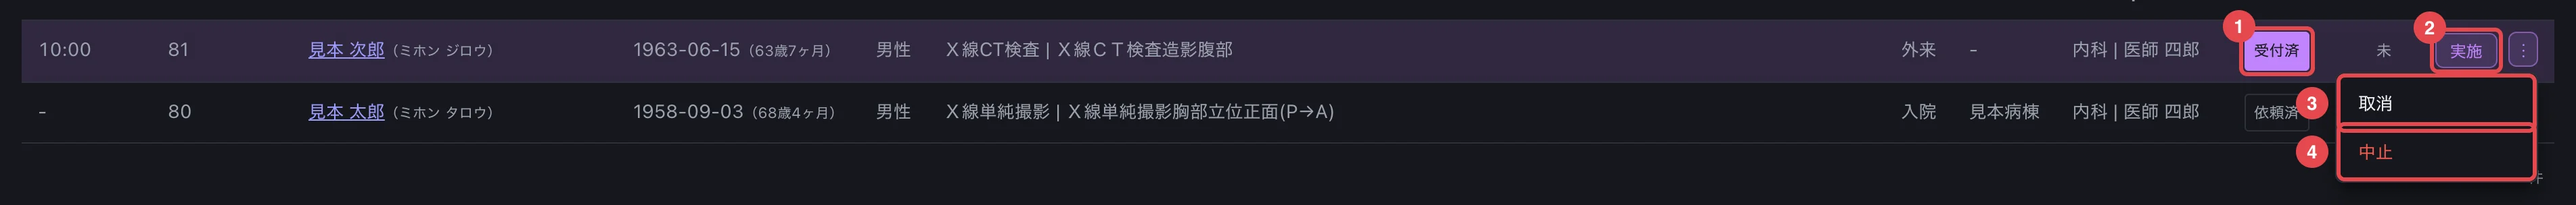
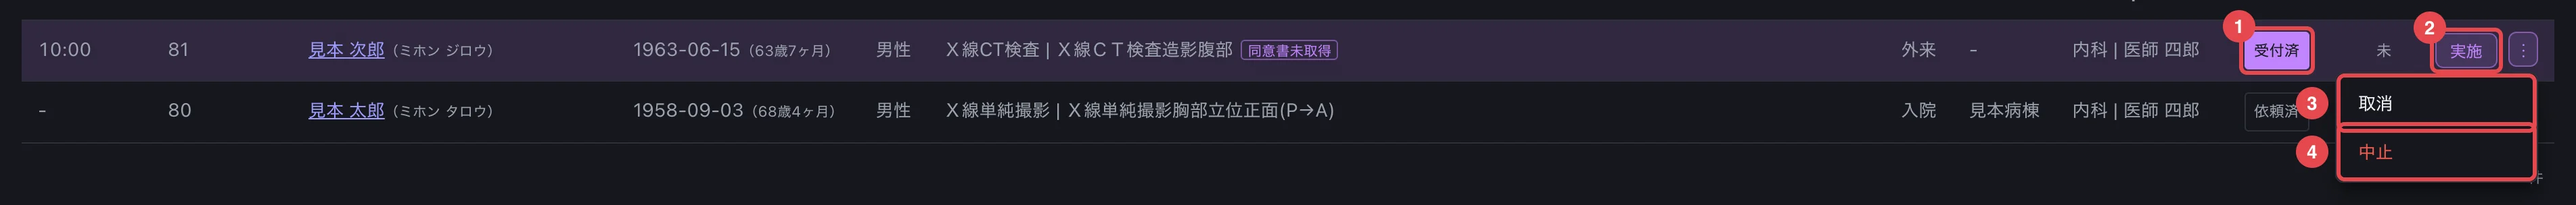
docs: 放射線検査の追加機能を操作マニュアルに反映

diff --git a/docs/manual/rad-worklist.md b/docs/manual/rad-worklist.md
@@ -1,11 +1,12 @@
 # 放射線検査一覧
 
 放射線部が、医師の出した放射線検査を放射線検査一覧で受け付けて実施を記録し、読影医が読影レポートを書く操作です。
+検査の件数と線量の集計、照射録の印刷も、この一覧から行います。
 放射線検査の流れ全体は、業務フローの[放射線検査オーダー](../flows/rad.md)を見てください。
 
 - 放射線検査一覧は、画面の上の「部門業務」>「放射線部門」>「放射線検査一覧」で開きます。ホームの「放射線検査」のカードからも開けます。
 - 作業は「依頼済」→(受付)→「受付済」→(実施入力)→「実施済」と進みます。読影レポートは実施済の検査に書きます。
-- 医師がオーダーを登録しても、放射線部への通知は出ません。撮影日の一覧で確かめます。
+- 至急の検査が登録されたときと、受付済の検査が変更されたときは、放射線部のチームに「放射線オーダー連絡」の通知が届きます。チームの誰か 1 人が「確認」を押すと片付きます。通常の検査の登録では通知は出ないので、撮影日の一覧で確かめます。
 
 ## 放射線検査一覧の見方
 
@@ -15,12 +16,38 @@
 2. 「種別(モダリティ)」「入外区分」「病棟」「診療科」「ステータス」で絞り込めます。「クリア」で絞り込みを外します。
 3. 撮影時刻の順に並びます。時刻の決まっていない検査は「-」で、後ろに並びます。
 4. 「ステータス」に作業の状態が出ます。至急の検査は「区分」に「至急」が付き、行の色が変わります。
-5. 「読影」に読影レポートの状態が出ます。まだ書いていなければ「未」、書いてあれば報告区分(暫定報告・最終報告・訂正報告)が出ます。
+5. 「読影」に読影レポートの状態が出ます。まだ書いていなければ「未」、書いてあれば報告区分(暫定報告・最終報告・訂正報告)が出ます。読影しない検査は「不要」です。
 6. 行のボタンで作業を進めます。依頼済の行は「受付」、受付済の行は「実施」、実施済の行は「読影」です。
-7. 撮影日を決めずに出された検査は「日付未定」のタブに並びます。タブ名に件数が出ます。
+7. タブで一覧を切り替えます。
 
-- 行を押すと、右に患者プロファイルが開きます。患者氏名を押すとカルテが開きます。
+    | タブ | 中身 |
+    |---|---|
+    | 撮影日別 | 選んだ撮影日の検査 |
+    | 日付未定 | 撮影日を決めずに出された検査。タブ名に件数が出ます |
+    | 読影待ち | 実施済で、読影レポートが確定していない検査。[読影待ちの検査を見る](#読影待ちの検査を見る) |
+    | 件数集計 | 期間の検査の件数。[検査の件数を集計する](#検査の件数を集計する) |
+    | 線量集計 | 期間の被曝線量と再撮影。[線量を集計する](#線量を集計する) |
+
+8. 造影する検査で、オーダーの「造影同意書取得済」にチェックが付いていないものには「同意書未取得」と出ます。撮影の前に確かめます。
+
+- 患者氏名を押すとカルテが開きます。
 - 患者氏名の後ろに、注意区分・アレルギー・感染症の印が出ます。
+
+## 依頼の内容を確かめる
+
+行を押すと、右に検査の内容と患者プロファイルが開きます。カルテを開かずに、撮影の前に確かめることを読めます。
+
+![行を押して開いた右側の欄](img/rad-worklist/09-drawer.webp){ .screen width="620" }
+
+1. 行と同じボタン(「受付」「実施」「読影」、「取消」「中止」など)が並びます。
+2. 撮影日時・至急区分・依頼科と依頼医師・登録日時と、撮影項目ごとの依頼病名・検査目的・特別指示が出ます。
+3. 「カルテ」を押すと、患者のカルテが開きます。
+
+- 患者に造影・MRI・妊娠・感染症の注意があると、検査の内容の上に出ます。同じ注意は実施入力の上にも出ます。
+- 医師が登録のときに確かめた警告と、その理由も出ます。
+- 実施済の検査は、実施した内容(撮影室・造影剤・被曝線量など)も出ます。
+- 中止・中止取消・実施の取消は、誰がいつ行ったかが残り、ここで読めます。
+- 下に患者プロファイルが続きます。「×」で閉じます。
 
 ## 受け付ける
 
@@ -41,20 +68,44 @@
 
 1. 「実施時刻」は今の時刻が入っています。撮った時刻が違うときは直します。
 2. 「実施者」は、ログインしている人です。
-3. 手技料の行は初期の行のままでよければ触りません。足すときは「診療行為追加」、使わなかったものは行のゴミ箱のボタンで外します。
-4. 造影剤の「使用量」を確かめます。
-5. 「経路」を選びます。
-6. 初期の行に無い造影剤は「造影剤追加」で足します。
+3. 「撮影室」は、予約した撮影室が入っています。予約の無い検査は選びます。
+4. 撮り直したときは、「再撮影」で理由(体動・ポジショニング不良・撮影条件不良・アーチファクト・装置不良・その他)を選びます。
+5. 手技料の行は初期の行のままでよければ触りません。足すときは「診療行為追加」、使わなかったものは行のゴミ箱のボタンで外します。
+6. 造影剤の「使用量」を確かめます。
+7. 「経路」を選びます。
+8. 初期の行に無い造影剤は「造影剤追加」で足します。
 
 ![実施入力(器材と被曝線量)](img/rad-worklist/04-perform-dose.webp){ .screen width="1194" }
 
 1. 使用した器材を確かめます。足すときは「器材追加」を押します。
-2. 「被曝線量」を入れます。CT は CTDIvol と DLP、血管撮影と透視は DAP と透視時間です。単純撮影には欄が出ません。
+2. 「被曝線量」を入れます。CT は CTDIvol と DLP、血管撮影と透視は DAP と透視時間、核医学は実投与量です。単純撮影には欄が出ません。
 3. 「実施登録」を押すと、行が「実施済」になります。
 
 - 造影剤のロット番号の列は、ロット番号を記録する薬のときだけ出ます。
 - 造影剤も器材も使わない単純撮影は、そのまま「実施登録」を押します。実施入力の無い撮影項目だけの検査は、「実施」を押すとすぐに実施済になります。
 - 撮影を途中でやめたときは、記録を残す操作はありません。撮らなかった検査は中止にします。
+- 実施済の検査は、カルテのカードから編集できません。医師が内容を直すときは、行の「⋮」の「取消」で受付済に戻します。
+
+## 副作用を記録する
+
+造影剤の副作用などが出たときは、実施済の行から記録します。カルテの放射線検査のカードの「⋮」からも開けます。
+
+![実施済の行のメニュー](img/rad-worklist/10-adverse-menu.webp){ .screen }
+
+1. 実施済の行の「⋮」の「副作用記録」を押します。
+
+![副作用の記録](img/rad-worklist/11-adverse.webp){ .screen width="954" }
+
+1. 「用語(CTCAE)」に副作用の名前を入れます。造影剤でよくある副作用(悪心・蕁麻疹など)は、欄を押すと候補から選べます。「CTCAE から選択」を押すと、用語の一覧から Grade の説明を読みながら選べます。
+2. 「Grade」を選びます。
+3. 「発現日」を確かめます。初期値は今日です。回復していれば「回復日」も入れます。
+4. 「対処・経過」に、行った対処と経過を書きます。
+5. 「追加」を押すと記録されます。続けて別の副作用も記録できます。
+6. 「使用した造影剤」に、実施入力で記録した造影剤が出ます。「アレルギー登録」を押すと、その造影剤を患者のアレルギーに登録します。副作用を 1 件記録すると押せます。
+
+- 記録した副作用は、カルテの発現日に有害事象のカードで出ます。
+- 造影剤をアレルギーに登録すると、次に造影検査を出すときに警告が出ます。
+- 記録した副作用は、上の一覧の「編集」「削除」で直せます。
 
 ## 読影レポートを書く
 
@@ -68,7 +119,7 @@
 ![読影レポート登録(依頼内容と実施情報)](img/rad-worklist/06-report-request.webp){ .screen width="954" }
 
 1. 「依頼内容」に、医師の依頼病名・検査目的・特別指示と撮影項目が出ます。見出しを押すと畳めます。
-2. 「実施情報」に、実施日時・造影剤・被曝線量が出ます。
+2. 「実施情報」に、実施日時・撮影室・造影剤・被曝線量が出ます。再撮影のあった検査は、その理由も出ます。
 
 ![読影レポート登録(読影)](img/rad-worklist/07-report.webp){ .screen width="960" }
 
@@ -91,3 +142,55 @@
 2. 書き直すときは「読影編集」を押します。最終報告を書き直して登録すると、訂正報告になります。
 
 - 読影レポートのある検査は、実施の取消ができません。取り消すときは、先に読影レポートの編集からレポートを削除します。
+
+## 読影待ちの検査を見る
+
+読影レポートがまだ確定していない検査を、撮影日をまたいで見ます。
+
+![読影待ち](img/rad-worklist/12-reading.webp){ .screen }
+
+1. 「読影待ち」のタブを押します。タブ名に件数が出ます。
+2. 行の「読影」から読影レポートを書きます。
+
+- 並ぶのは、実施済で読影する検査のうち、読影レポートが無いものと暫定報告のものです。過去 60 日ぶんが、撮影日の古い順に並びます。
+- オーダーの「読影」のチェックを外した検査は並びません。
+- 読影の担当を割り当てる操作はありません。
+
+## 検査の件数を集計する
+
+![件数集計](img/rad-worklist/13-count.webp){ .screen }
+
+1. 「件数集計」のタブで、「開始日」と「終了日」を選びます。撮影日がこの期間に入る検査を数えます。
+2. 上に、実施済の撮影の件数、外来と入院の内訳、至急と造影の件数と割合、中止の件数が出ます。「未実施」は、撮影日を過ぎても依頼済・受付済のままの撮影の件数です。
+3. 下に、種別ごと・依頼科ごと・月ごと・撮影項目ごとの表が出ます。外来・入院・計と、そのうちの至急・造影の件数です。見出しの「CSV」で、その表をファイルに保存します。
+
+- 項目のまとまり(「胸部2方向」など)は 1 件と数えます。
+- 見出しの「?」にマウスを載せると、数え方が出ます。
+
+## 線量を集計する
+
+![線量集計](img/rad-worklist/14-dose.webp){ .screen }
+
+1. 「線量集計」のタブで、「開始日」と「終了日」を選びます。「撮影室」で撮影室を絞れます。
+2. 上に、実施の件数、線量の記録率、診断参考レベルを超えた項目の数、再撮影率が出ます。
+3. 「撮影内容ごとの線量」に、撮影内容と線量項目ごとの件数・中央値・75%値・最大が出ます。中央値が診断参考レベルを超えた行は色が変わります。「CSV」でファイルに保存します。
+4. 「再撮影の理由」に、理由ごとの件数が出ます。
+
+- 線量の記録率は、線量の欄が出る検査(CT・血管撮影・透視・核医学)のうち、線量を記録した実施の割合です。
+- 診断参考レベルは、撮影項目のマスタで項目ごとに設定します。設定していない項目は「-」です。
+
+患者ごとの線量は、カルテの「検査結果」の「被曝線量」で見ます。線量を記録する検査の実施が新しい順に並び、期間の合計が出ます。
+
+![カルテの被曝線量](img/rad-worklist/17-karte-dose.webp){ .screen width="1059" }
+
+## 照射録を印刷する
+
+![照射録を開く](img/rad-worklist/15-record-open.webp){ .screen }
+
+1. 「撮影日別」のタブで撮影日を選び、「照射録」を押します。その日に実施した検査の照射録が、別のタブに開きます。
+
+![照射録](img/rad-worklist/16-record.webp){ .screen }
+
+- 実施 1 回が 1 行で、患者の氏名・性別・年齢、照射の方法(撮影内容・撮影室・線量・造影剤)、指示の内容、指示医師、実施者が並びます。
+- 「印刷」を押して紙に出し、「医師署名」の欄に署名を受けます。
+- 実施入力の無い撮影項目だけの検査は、照射録に載りません。

diff --git a/docs/flows/rad.md b/docs/flows/rad.md
@@ -61,8 +61,10 @@ flowchart TD
 - **入口**: 依頼医はカルテの右ペイン(右側のオーダー入力)の「放射線検査」で、撮影伝票か項目検索から撮影項目を選びます。オーダーセット、クリニカルパスからも出せます。
 - **入力する項目**: 撮影項目・至急区分・撮影日時(または予約)・依頼病名・検査目的・特別指示です。
 - **放射線部の画面**: 放射線部は「部門業務 > 放射線検査一覧」を撮影日ごとに見ます。撮影時刻の順に並び、時刻の無いオーダーは後ろです。
-- **一覧の印**: 至急の行は色が変わり、患者の列に注意区分・アレルギー・感染症の印が出ます。オーダーが登録されても、放射線部への通知は出ません。
-- **読影**: 読影レポートは任意です。読影しない検査は実施済のまま終わります。
+- **一覧の印**: 至急の行は色が変わり、患者の列に注意区分・アレルギー・感染症の印が出ます。造影検査で同意書が取得済みになっていない行には「同意書未取得」と出ます。
+- **放射線部への連絡**: 至急オーダーの登録と、受付済のオーダーの変更は、放射線部のチームに通知が出ます。チームの誰か 1 人が確認すれば消えます。通常のオーダーの登録では通知は出ません。
+- **行のドロワー**: 行を押すと右に開き、患者の注意(造影・MRI・妊娠・感染症)、依頼内容(依頼病名・検査目的・特別指示)、依頼時に医師が確認した警告と理由、実施情報を、カルテを開かずに読めます。同じ注意は実施入力の上にも出ます。
+- **読影**: 読影するかどうかは、オーダーの「読影」のチェックで決まります(初期値は撮影項目の設定)。読影しない検査は実施済のまま終わります。
 - **外来の一時終了**: 外来の診察終了で、当日の放射線検査が依頼済・受付済のまま残っていると「一時終了」を選べます。患者が撮影に行き、戻ってから診察を再開します。
 - **撮影装置との接続**: 撮影装置・画像管理システム(PACS)とは接続しません。撮影の事実は実施入力で記録し、画像は読影レポートに添付します。
 - **DICOM**: カルテの「DICOMビューア」タブは持ち込みの DICOM を見る画面で、オーダーとは結び付きません。
@@ -153,6 +155,7 @@ flowchart TD
 | 造影(手技が造影、血管撮影) | 造影の注意区分、造影剤アレルギー、eGFR 30 未満 | 確認を要する |
 | 造影(手技が造影、血管撮影) | eGFR 45 未満、eGFR を出せない、ビグアナイド系の内服中 | 表示のみ |
 | MRI | 体内金属の注意区分 | 確認を要する |
+| すべて | 重複撮影(撮影日の前後 30 日に、同じ種別・同じ部位のオーダーがある) | 表示のみ |
 | すべて | 妊娠・授乳、感染症 | 表示のみ |
 | 施設の規則 | 「警告の規則マスタ」の規則 | 規則の設定による |
 
@@ -171,6 +174,7 @@ flowchart TD
 - 入力者が依頼医本人でないとき(代行入力)は、依頼医の承認待ちになります。承認待ちでもオーダーは放射線部に出ます。
 
 設定する人へ: 特別指示のテンプレートは、撮影項目マスタの既定テンプレートに設定すると最初から選ばれます。
+読影の初期値も、撮影項目マスタで項目ごとに設定します。放射線部への通知を使うには、「チーム医療」のマスタに区分「放射線部」のチームを登録し、メンバーを入れます。
 
 ## 予約の流れ
 
@@ -230,12 +234,16 @@ flowchart TD
 | 実施時刻 | 初期値は現在時刻 |
 | 実施者 | ログイン中の医療従事者 |
 | 手技・造影剤・器材 | 撮影項目ごとに決めてある初期の行が並ぶ |
+| 撮影室 | 予約で押さえた撮影室が初期値。予約の無い検査は選ぶ |
+| 再撮影 | 撮り直したときに理由を選ぶ |
 | 被曝線量 | 撮影の種類で欄が変わる |
 | コメント | 実施のコメント |
 
 - **初期の行**: 手技・造影剤・器材の初期の行は、撮影項目に紐付けた実施入力データセットから出ます。データセットの候補に無いものだけ全件検索で足します。
 - **入力なしで終わる検査**: 造影剤も器材も無い単純撮影は、そのまま「実施登録」で終わります。
-- **被曝線量**: CT は CTDIvol・DLP、血管撮影と透視は DAP・透視時間です。単純撮影には欄が出ません。
+- **被曝線量**: CT は CTDIvol・DLP、血管撮影と透視は DAP・透視時間、核医学は実投与量です。単純撮影には欄が出ません。
+- **線量の管理**: 患者ごとの履歴はカルテの「検査結果 > 被曝線量」、施設の集計は放射線検査一覧の「線量集計」タブで見ます。集計は撮影内容ごとの中央値を、撮影項目マスタに入れた診断参考レベルと比べ、再撮影の割合と理由も出します。
+- **検査件数**: 放射線検査一覧の「件数集計」タブで、期間の実施済の撮影を種別・依頼科・月・撮影項目ごとに数えます。撮影日を過ぎて実施されていない撮影の件数も出ます。
 - **ロット番号**: 造影剤のロット番号の列は、薬剤付加情報で記録対象にした薬のときだけ出ます。
 - **途中でやめたとき**: 撮影を途中でやめた記録を残す操作はありません。撮らなかった検査は中止にします。
 
@@ -292,7 +300,7 @@ flowchart TD
 - **読影医**: 読影医と発行施設は入力欄を持たず、保存時にログイン中の医療従事者と自院が入ります。
 - **画像**: 画像はファイル選択・ドラッグ&ドロップ・貼り付けで足し、元画像を残したまま矢印などを描き込めます。1 回に送れる量には上限があるので、超えたら分けて保存します。
 - **テンプレート**: 所見は撮影項目マスタの既定テンプレートから記入できます。診断もテンプレートを選べます。
-- **読影待ちの一覧**: 読影の担当割当と、日付をまたいだ読影待ちの一覧はありません。一覧は撮影日ごとです。
+- **読影待ちの一覧**: 放射線検査一覧の「読影待ち」タブに、実施済で読影レポートが確定していない検査(読影ありのもの)が、撮影日の古い順に並びます。過去 60 日ぶんで、件数がタブ名に出ます。読影の担当割当はありません。
 
 ## 結果の確認
 
@@ -335,7 +343,7 @@ flowchart TD
 
 | 操作 | できる場所 | できないとき |
 |---|---|---|
-| 変更 | カルテのカード | なし(受付済・実施済でもできる) |
+| 変更 | カルテのカード | 実施済のとき(先に取消) |
 | 予約の変更 | カルテのカードの編集 | なし |
 | 中止 | 放射線検査一覧の行のメニュー | 実施済のとき(先に取消) |
 | 中止取消 | 放射線検査一覧の行のメニュー | なし |
@@ -343,15 +351,20 @@ flowchart TD
 | 削除 | カルテのカード | 実施記録か読影レポートがあるとき(取消・レポートの削除が先) |
 | レポートの削除 | 読影レポートの編集 | なし |
 
-- **変更**: 単独の項目は、他の撮影項目と同じオーダーにできません。変更しても放射線部への通知は出ず、一覧の内容で見えます。代行入力のときは、再度の承認を要する場合があります。
+- **変更**: 単独の項目は、他の撮影項目と同じオーダーにできません。受付済のオーダーを変更すると放射線部のチームに通知が出ます。依頼済の変更は通知が出ず、一覧の内容で見えます。代行入力のときは、再度の承認を要する場合があります。
 - **予約の変更**: 撮影日時と一緒に動きます。放射線検査一覧の「予約」は、日付未定のオーダーだけです。
 - **中止**: 検査予約を取り消して、枠を空きに戻します。医事会計の対象から外れます。
 - **中止取消**: 依頼済に戻ります。撮影日時は残りますが、予約は戻りません。必要ならカルテのカードの編集で枠を取り直します。
 - **取消**: 1 つ前の状態へ戻す訂正です。実施済からの取消は、実施記録(造影剤・被曝線量を含む)を消します。
+- **操作の記録**: 中止・中止取消・実施済からの取消は、誰がいつ行ったかがオーダーの詳細と行のドロワーに残ります。中止と中止取消を依頼医以外が行うと、依頼医の承認待ちになります。
+- **副作用の記録**: 造影剤の副作用などは、実施済の行のメニューかカルテのカードのメニューの「副作用記録」で残します。使った造影剤をその場でアレルギーに登録でき、次回の造影検査のオーダーで警告が出ます。
 - **削除**: 検査予約を取り消して、枠を空きに戻します。状態と、テンプレートの記入内容も一緒に消えます。
 - **レポートの削除**: 所見とテンプレートの記入内容を消し、未確認の通知と未対応のフォロー推奨を取り下げます。添付した画像の実体は残ります。
 - **DO**: DO(前回と同じ内容で出し直す)はオーダーの内容だけを写します。予約・実施記録・読影レポートは写りません。
 
 ## 帳票
 
-放射線検査の専用の帳票はありません。検査案内・造影剤の同意書・依頼票・照射録はまだ出せません。
+- **照射録**: 放射線検査一覧(撮影日別)の「照射録」で、その日に実施した検査の照射録を別タブに開いて印刷します。患者の氏名・性別・年齢、照射の方法(撮影内容・撮影室・線量・造影剤)、指示医師と指示の内容、実施者が並び、医師の署名は紙の欄に受けます。
+- 実施入力をしない項目は実施記録を作らないので、照射録に載りません。照射録に載せる検査は、撮影項目マスタで「実施入力あり」にします。
+- **造影剤の同意書**: カルテの「テンプレート」の「造影剤使用検査の説明・同意書」で記入し、PDF を出して署名をもらいます。同意をもらったら、オーダーの「造影同意書取得済」にチェックを付けます。
+- 依頼票・受付票はまだ出せません。

diff --git a/docs/dev/physio-endoscopy-treatment.md b/docs/dev/physio-endoscopy-treatment.md
@@ -88,10 +88,10 @@
 | 部品 | 生理検査 | 内視鏡 | 処置 |
 |---|---|---|---|
 | フォーム | `components/PhysioOrderForm.tsx`・`PhysioOrderPanels.tsx` | `EndoscopyOrderForm.tsx`・`EndoscopyOrderPanels.tsx` | `TreatmentOrderForm.tsx`・`TreatmentOrderPanels.tsx` |
-| オーダーの組み立て | `fhir/physioOrderHelpers.ts` | `fhir/endoscopyOrderHelpers.ts` | `fhir/treatmentOrderHelpers.ts` |
-| 実施記録の組み立て | `fhir/physioResultHelpers.ts` | `fhir/endoscopyResultHelpers.ts` | `fhir/treatmentResultHelpers.ts` |
+| オーダーの組み立て | `fhir/physioOrderHelpers.ts` → `examOrderHelpers.ts` | `fhir/endoscopyOrderHelpers.ts` → `examOrderHelpers.ts` | `fhir/treatmentOrderHelpers.ts` |
+| 実施記録の組み立て | `fhir/physioResultHelpers.ts` → `examResultHelpers.ts` | `fhir/endoscopyResultHelpers.ts` → `examResultHelpers.ts` | `fhir/treatmentResultHelpers.ts` → `examResultHelpers.ts` |
 | 部門一覧 | `pages/PhysioWorklistPage.tsx` → `ExamWorklistPage.tsx` | `pages/EndoscopyWorklistPage.tsx` → `ExamWorklistPage.tsx` | `pages/TreatmentWorklistPage.tsx` |
-| 実施入力 | `components/PhysioPerformModal.tsx` | `EndoscopyPerformModal.tsx` | `TreatmentPerformModal.tsx` |
+| 実施入力 | `components/PhysioPerformModal.tsx` → `ExamPerformInputModal.tsx` | `EndoscopyPerformModal.tsx` → `ExamPerformInputModal.tsx` | `TreatmentPerformModal.tsx` → `ExamPerformInputModal.tsx` |
 | 警告 | `useInfectionAdvisory`・`useAdvisoryRuleAdvisories(…, "physio")` | 同じ hook(`"endoscopy"`) | なし |
 
 | 操作 | 組み立て | hook |

diff --git a/CLAUDE.md b/CLAUDE.md
@@ -112,6 +112,8 @@ manual-plan.md        操作マニュアルの作成計画と進み具合(公開
 - **部門の一覧の写真**(放射線・生理検査・内視鏡・処置・手術など): 医師 四郎が撮影用の患者に撮影日のオーダーを出し、部門のアカウントで受ける
   2 段で撮る。片付けは `lib/department.mjs` の `removeShootingOrders`(患者・オーダーの種別を指定して、撮影日に出したものだけを消す)。
   日付を問わず並ぶ一覧(放射線治療カレンダーのコースの一覧など)は、画面の患者の絞り込みに「見本」を入れて撮る。
+  期間で数える集計(放射線検査一覧の「件数集計」「線量集計」など)は、初期値の期間に開発データが入るので、開始日を撮影日にして撮る。
+  中身が後から読み込まれて伸びるモーダルは、最後に出る行を待ってから `settle` して注釈を付ける。
 - **外来・救急・病棟の写真**: 予約・受付・救急の受診・入院予定と入院はシーンが撮影日に作り、前後に直接消す(`lib/outpatient.mjs` の `removeVisits` など)。
   見本病棟の 102(2 床)は撮影用データでは空けてあり、入院と転床の写真に使う。ほかのシーンで患者を入れたままにしない。
   待合表示板は、表示板の側(backend)がサーバーの今日の受付を出すので、表示板の写真だけは時計を実行した日の朝にして当日受付から撮る

diff --git a/docs/flows/medical-management.md b/docs/flows/medical-management.md
@@ -204,7 +204,7 @@ flowchart TD
 - **月の上限回数の初期値**: 診療行為マスタの算定回数の上限が入ります。週 1 回・初回のみなど、月で数えられない上限のものは直すか空にします。空にすると、上限の警告は出ません。
 - **加算**: 管理料と同じく、診療行為マスタから選びます。
 - **要件の文書**: 算定の要件になる文書を、文書テンプレートから選びます。初回用と継続用のように複数選ぶと、どれか 1 つで足ります。
-- **最初から入っている項目**: 主な管理料・文書料・在宅の 27 件が登録されています。
+- **最初から入っている項目**: 主な管理料・文書料・在宅の 29 件が登録されています。
 - **特定疾患療養管理料**: 施設の規模でコードが分かれます。最初から入っているのは 100 床以上 200 床未満の病院のコードなので、施設に合わせて選び直します。
 - **名称と点数**: 診療行為マスタのものを出します。点数改定で診療行為マスタを取り込み直せば、項目を直さなくても点数が変わります。
 - **使わなくなった項目**: 無効にします。無効にしても、それを算定した過去の記録はそのまま残ります。

diff --git a/docs/dev/dialysis.md b/docs/dev/dialysis.md
@@ -234,7 +234,7 @@
 | 血液浄化器の行 | `fhir/bloodPurifierHelpers.ts` |
 | 経過表の器 | `fhir/timeSeriesChartHelpers.ts`、`components/timeSeriesChart/` |
 | 透析経過表の経路 | `/dialysis-sessions/:sessionId/chart`、印刷は `/dialysis-chart-print/:sessionId` |
-| 患者メモの雛形 | `docs/report-mappings/dialysis-memo-01.questionnaire.json` |
+| 患者メモの雛形 | `backend/db/seed_data/templates/dialysis-memo-01.questionnaire.json` |
 | 血液浄化器のマスタ | `pages/BloodPurifierPage.tsx`(`/blood-purifiers`)、backend `master/blood_purifiers` |
 | 施設設定 | `dialysis_shifts` / `dialysis_lab_items` / `receipt_codes.dialysis`(`backend/app/models/facility_settings.rb`) |
 

diff --git a/docs/manual/karte.md b/docs/manual/karte.md
@@ -31,7 +31,7 @@
 |---|---|
 | 患者情報 | プロファイル・アレルギー・持参薬・口腔診査情報 |
 | 診療情報 | 投薬歴・注射カレンダー・化学療法・クリニカルパス・食事・マルチチャート・診療ダッシュボード |
-| 検査結果 | 検体検査・検体検査時系列・細菌検査・病理検査・放射線検査・生理検査・内視鏡 |
+| 検査結果 | 検体検査・検体検査時系列・細菌検査・病理検査・放射線検査・被曝線量・生理検査・内視鏡 |
 | 看護 | 看護プロファイル・指示簿・看護計画 |
 | その他 | カルテ印刷・DICOMビューア・SMARTアプリ |
 

diff --git a/docs/manual/notifications.md b/docs/manual/notifications.md
@@ -38,7 +38,7 @@
 
 | ボタン | 使う通知 | 押したとき |
 |---|---|---|
-| 確認 | 緊急異常値・検査結果確認・重要所見・早期警告など | 確認したことを残して片付けます |
+| 確認 | 緊急異常値・検査結果確認・重要所見・早期警告・放射線オーダー連絡など | 確認したことを残して片付けます |
 | 承認 | オーダー承認・カルテ承認 | 代行入力や研修医のオーダー・記録を承認します |
 | 対応済 | 文書作成・カルテ差戻しなど | 対応したことにして片付けます |
 
